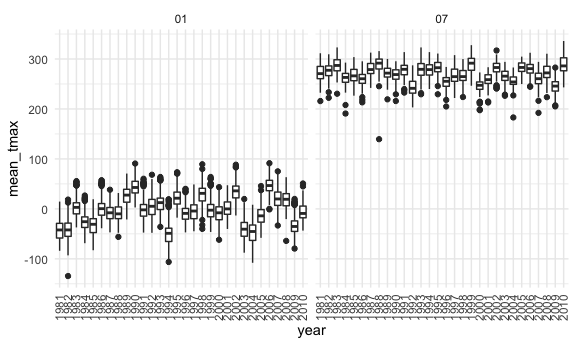
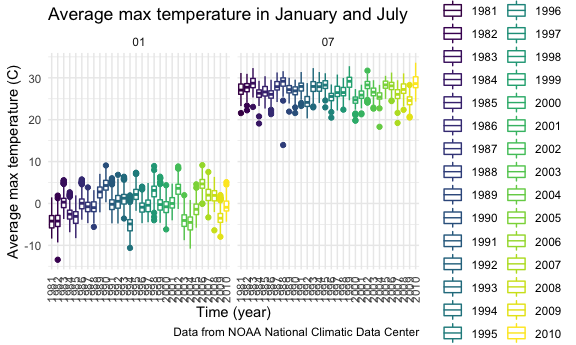
made some corrections to the plots

diff --git a/p8105_hw3_jz3297.md b/p8105_hw3_jz3297.md
@@ -29,7 +29,7 @@ knitr::opts_chunk$set(
   out.width = "90%"
 )
 
-theme_set(theme_minimal() + theme(legend.position = "bottom"))
+theme_set(theme_minimal() + theme(legend.position = "right"))
           
 options(
   ggplot2.continuous.colour = "viridis",
@@ -221,43 +221,27 @@ Thursday.
 
 ``` r
 accel_df %>%
-  group_by(day) %>%
-  ggplot(aes(x = minute, y = activity_counts, color = day)) +
-  geom_line() +
-  stat_smooth()
-```
-
-    ## `geom_smooth()` using method = 'gam' and formula 'y ~ s(x, bs = "cs")'
-
-<img src="p8105_hw3_jz3297_files/figure-gfm/unnamed-chunk-7-1.png" width="90%" />
-
-``` r
+  group_by(day, week) %>%
+  summarize(mean_activity_day = mean(activity_counts)) %>%
+  ggplot(aes(x = day, y = mean_activity_day, color = day)) +
+  geom_point() +
+  stat_summary(fun = "mean", color = "red", alpha = 0.6, size = 0.5) +
   labs(
     title = "24-hour Activity Plot",
-    x = "24-hour (min)",
-    y = "Activity counts",
+    x = "Day of the week",
+    y = "Average activity counts (24-hour)",
     caption = "Data from Advanced Cardiac Care Center of Columbia University Medical Center"
   )
 ```
 
-    ## $x
-    ## [1] "24-hour (min)"
-    ## 
-    ## $y
-    ## [1] "Activity counts"
-    ## 
-    ## $title
-    ## [1] "24-hour Activity Plot"
-    ## 
-    ## $caption
-    ## [1] "Data from Advanced Cardiac Care Center of Columbia University Medical Center"
-    ## 
-    ## attr(,"class")
-    ## [1] "labels"
+    ## `summarise()` regrouping output by 'day' (override with `.groups` argument)
 
-Describe patterns or conclusions based on this graph.
+    ## Warning: Removed 7 rows containing missing values (geom_segment).
 
-<br />
+<img src="p8105_hw3_jz3297_files/figure-gfm/unnamed-chunk-7-1.png" width="90%" />
+
+This person was more active on Fridays and Wednesdays than other days in
+the week. ?stat\_summary <br />
 
 ## Problem 3
 
@@ -272,6 +256,11 @@ ny_noaa =
 
 ny_noaa =
   mutate_at(ny_noaa, vars(tmax, tmin), as.numeric) %>%
+  mutate(
+    prcp = prcp / 10,
+    tmax = tmax / 10,
+    tmin = tmin / 10
+  ) %>%
   mutate_at(vars(year, month, day), as.factor)
 ```
 
@@ -312,8 +301,14 @@ ny_noaa %>%
   summarize(mean_tmax = mean(tmax)) %>%
   filter(month %in% c("01", "07")) %>%
   ggplot(aes(x = year, y = mean_tmax)) +
-  geom_boxplot() +
+  geom_boxplot(aes(color = year)) +
   theme(axis.text.x = element_text(angle = 90, vjust = 0.5, hjust = 1)) +
+    labs(
+    title = "Average max temperature in January and July",
+    x = "Time (year)",
+    y = "Average max temperature (C)",
+    caption = "Data from NOAA National Climatic Data Center"
+  ) +
   facet_grid(. ~ month)
 ```
 
@@ -333,19 +328,32 @@ Is there any observable/interpretable structure? outliers?
 tmax_tmin_p =
   ny_noaa %>%
   ggplot(aes(x = tmax, y = tmin)) +
-  geom_hex()
-
+  geom_hex() +
+    labs(
+    title = "Max vs. min temperature",
+    x = "Max temperature (C)",
+    y = "Min temperature (C)",
+    caption = "Data from NOAA National Climatic Data Center"
+  )
 
 snow_p =
   ny_noaa %>%
   filter(snow > 0 & snow < 100) %>%
   ggplot(aes(x = year, y = snow)) +
-  geom_boxplot()
+  geom_boxplot() +
+      labs(
+    title = "Snowfall between 0 to 100",
+    x = "Time (year)",
+    y = "Snowfall (mm)",
+    caption = "Data from NOAA National Climatic Data Center"
+  )
 
 
-tmax_tmin_p + snow_p
+tmax_tmin_p / snow_p
 ```
 
     ## Warning: Removed 1136276 rows containing non-finite values (stat_binhex).
 
 <img src="p8105_hw3_jz3297_files/figure-gfm/unnamed-chunk-11-1.png" width="90%" />
+
+?legend
